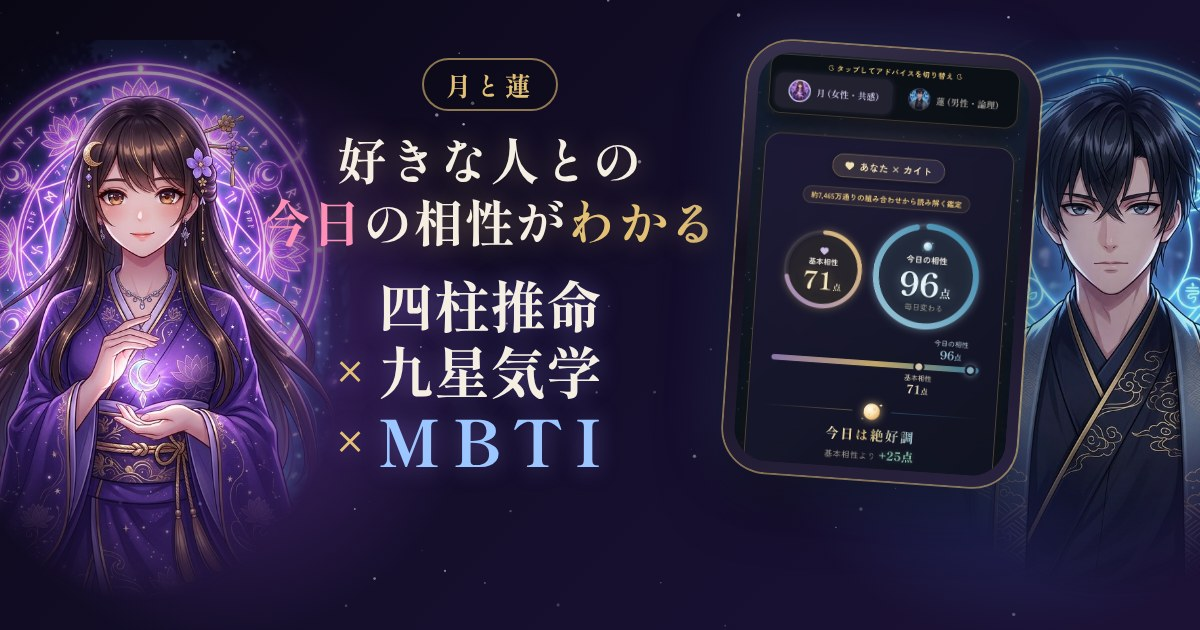
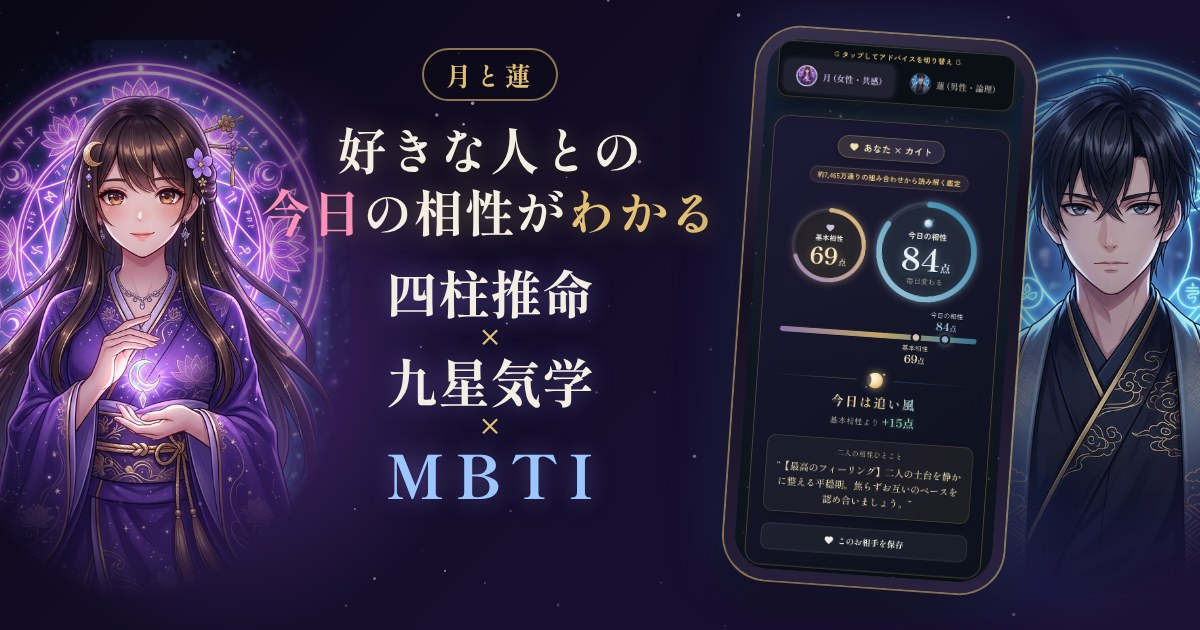
OGP：方式を×をはさんだ5行に、スマホ画面を縦長に撮り直し
Claude-Session: https://claude.ai/code/session_019582yCiujsVbX9raqTZ6j6

Changed region(s): [[0.2158, 0.0302, 0.8942, 0.9651], [0.2775, 0.4222, 0.4933, 0.8143], [0.3392, 0.0603, 0.4625, 0.181]]

diff --git a/docs/x-profile/ogp/ogp-top.html b/docs/x-profile/ogp/ogp-top.html
@@ -23,16 +23,16 @@ svg.st{position:absolute;inset:0}
 <style>
 .tsuki{left:-70px;top:40px;width:420px;height:562px}
 .ren{left:900px;top:40px;width:420px;height:562px;opacity:.95}
-.t{position:absolute;left:250px;top:58px;width:480px;text-align:center}
+.t{position:absolute;left:250px;top:48px;width:480px;text-align:center}
 .cp{margin-top:16px;font-size:50px;line-height:1.24;letter-spacing:.02em;white-space:nowrap;text-shadow:0 0 26px rgba(226,192,116,.4)}
 .cp .p{color:#fe8fb6}.cp .g{color:#e2c074}
-.mt{display:flex;justify-content:center;margin-top:22px}
-/* 方式名の左端と幅をそろえる：×は別の列、MBTIは字間で4文字幅に */
-.mg{display:grid;grid-template-columns:46px 224px;row-gap:4px;align-items:center;margin-left:-46px;text-shadow:0 0 24px rgba(160,140,255,.45)}
-.mx{color:#e2c074;font-size:40px;line-height:1;text-align:left}
-.mn{font-size:56px;line-height:1.1;white-space:nowrap}
-.mn.b{color:#9cc6ff;font-size:64px;letter-spacing:11.5px;margin-right:calc(-1*11.5px)}
-.phone{left:735px;top:48px;transform:rotate(4deg)}
+.mt{margin-top:22px;text-shadow:0 0 24px rgba(160,140,255,.45)}
+/* 方式名を3行、×はその間の行（5行）。MBTIは字間で4文字幅に */
+.mn{display:block;font-size:52px;line-height:1.1;white-space:nowrap}
+.mn.b{color:#9cc6ff;font-size:60px;letter-spacing:10.1px;text-indent:10.1px}
+.mx{display:block;color:#e2c074;font-size:30px;line-height:1.05}
+.phone{left:740px;top:34px;width:258px;transform:rotate(4deg)}
+.phone img{width:258px}
 </style>
 <div class="o"><svg class="st" width="1200" height="630" id="st"></svg>
 <div class="c tsuki"><img src="tsuki.jpg"></div>
@@ -40,11 +40,13 @@ svg.st{position:absolute;inset:0}
 <div class="t">
  <div class="badge">月と蓮</div>
  <div class="cp">好きな人との<br><span class="p">今日</span>の相性が<span class="g">わかる</span></div>
- <div class="mt"><div class="mg">
-  <span class="mx"></span><span class="mn">四柱推命</span>
-  <span class="mx">×</span><span class="mn">九星気学</span>
-  <span class="mx">×</span><span class="mn b">MBTI</span>
- </div></div>
+ <div class="mt">
+  <span class="mn">四柱推命</span>
+  <span class="mx">×</span>
+  <span class="mn">九星気学</span>
+  <span class="mx">×</span>
+  <span class="mn b">MBTI</span>
+ </div>
 </div>
 <div class="phone"><img src="app-screen.png"></div>
 </div><script>let s=11,r=()=>(s=(s*16807)%2147483647)/2147483647,o="";for(let i=0;i<70;i++){const x=r()*1200,y=r()*630,z=r()*1.5+.4;o+=`<circle cx="${x.toFixed(1)}" cy="${y.toFixed(1)}" r="${z.toFixed(1)}" fill="#fff" opacity="${(r()*.5+.15).toFixed(2)}"/>`}document.getElementById("st").innerHTML=o;</script>
